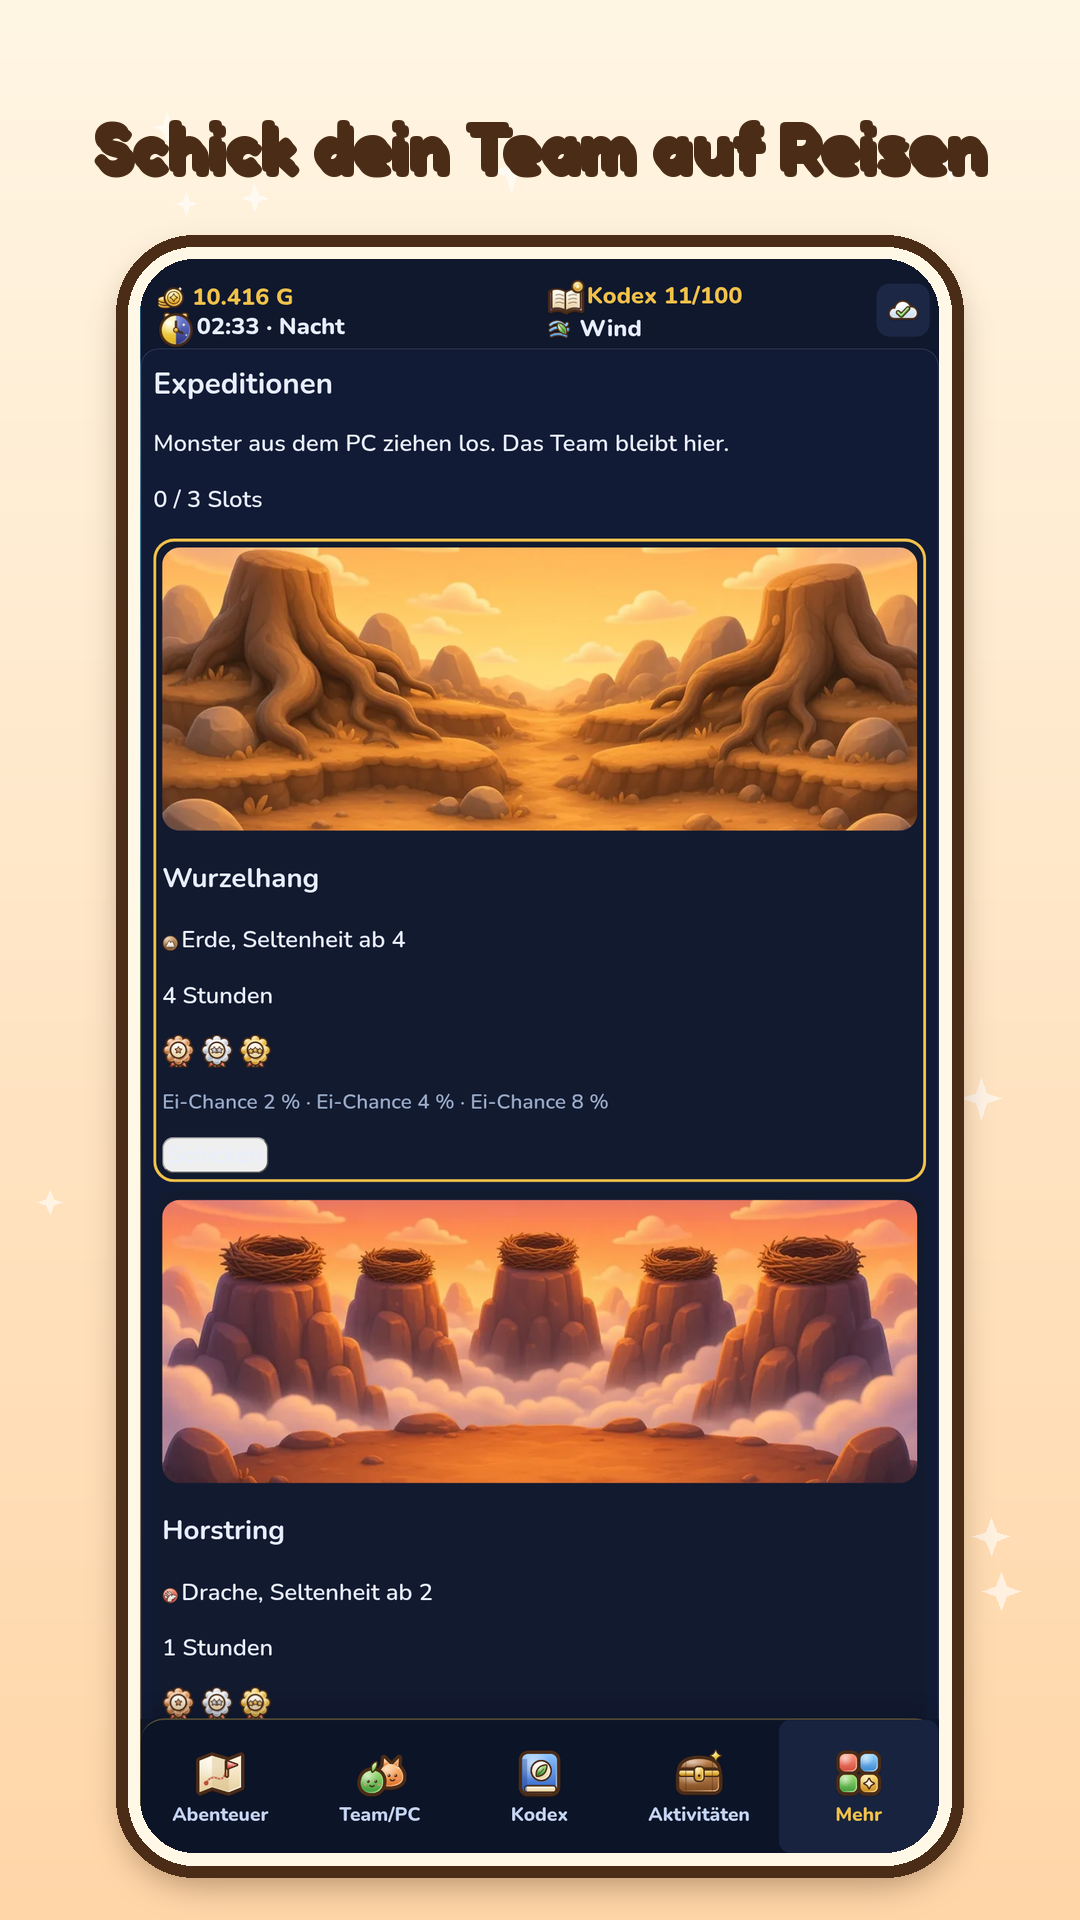
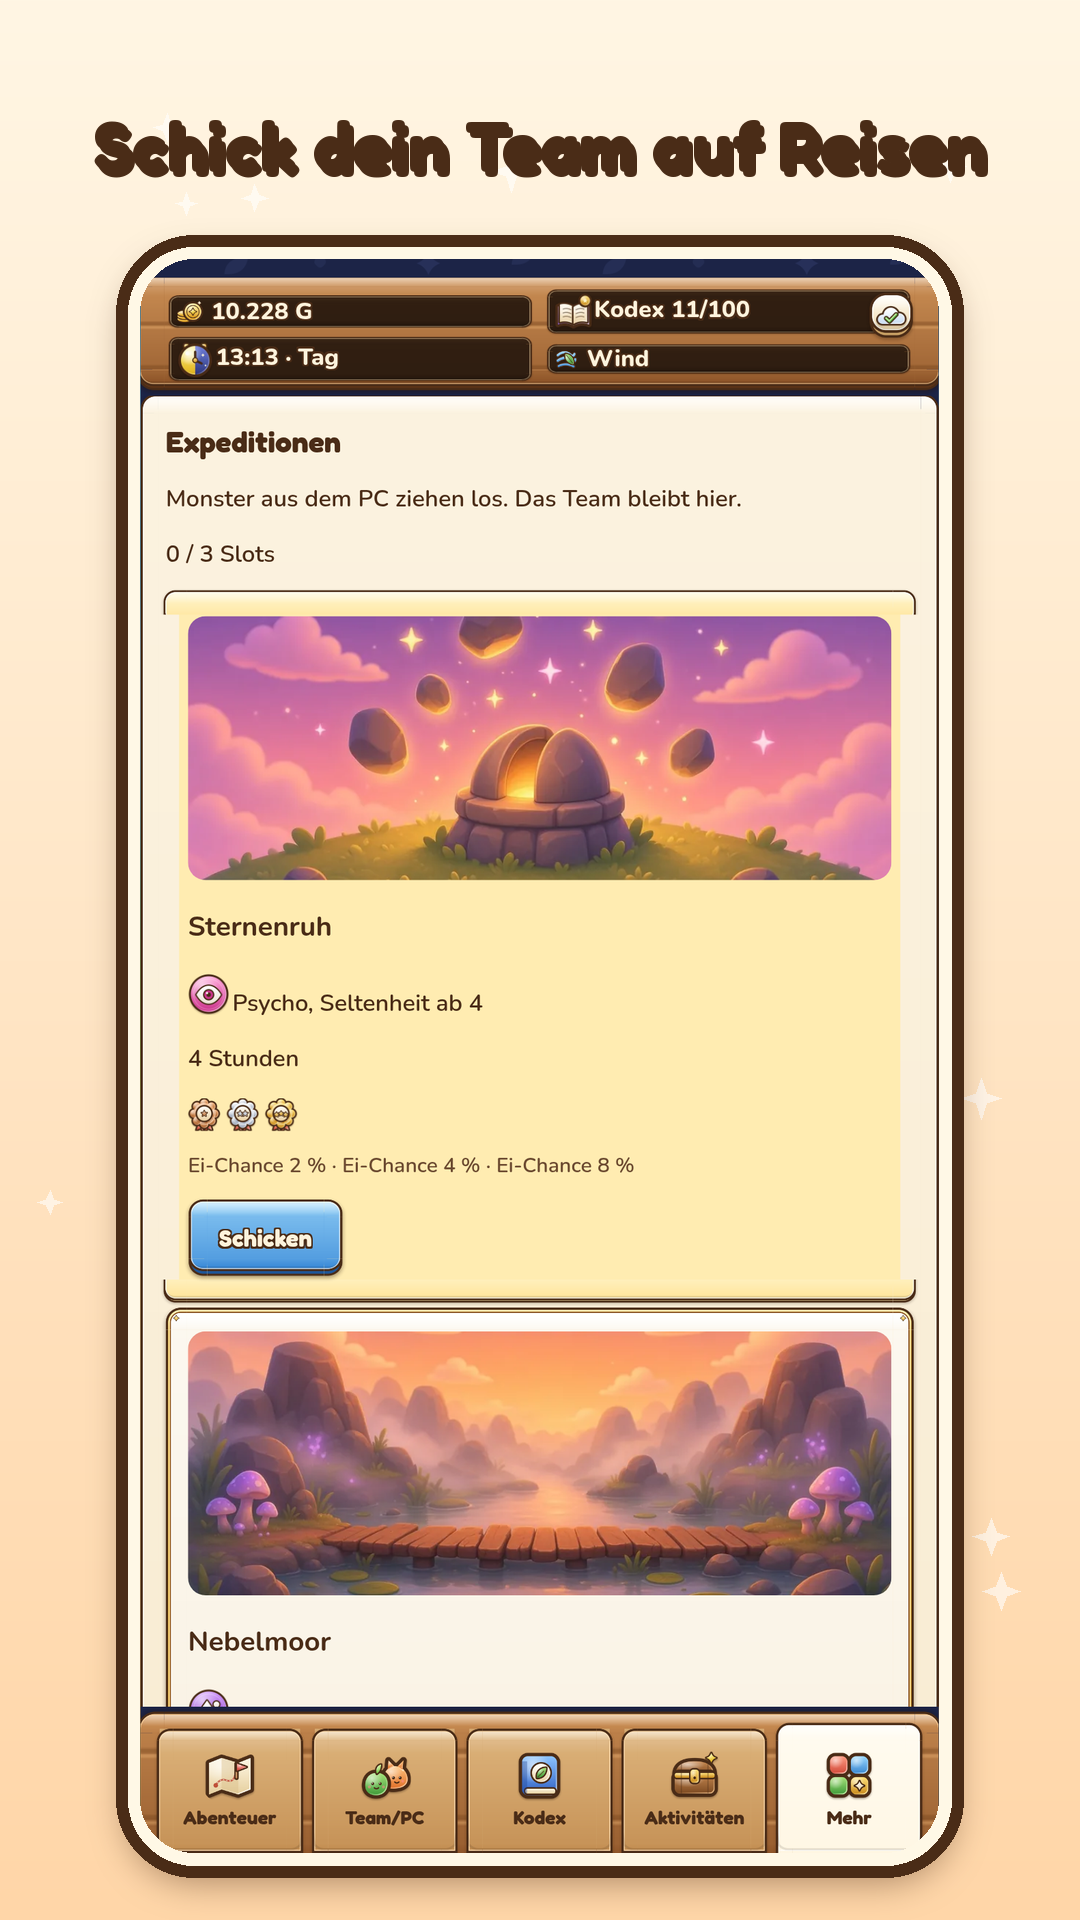
Grafik: Meisterschaftsringe, Starter-Rahmen, Store-Screenshots 01–07 neu, Abnahme D/E

diff --git a/docs/abnahme/p9-d.md b/docs/abnahme/p9-d.md
@@ -1,0 +1,42 @@
+---
+datum: 2026-11-19
+quelle: Live-Build https://2fast2hunter-ai.github.io/velunor/ (main d5e5b78, PR #95, Bundle index-Dk2nd-79.js), 390x844 DPR3: m390_* (audit_ui.mjs, Map-Sheet-Schließen ergänzt), xa/ (pra_dpr3.mjs), xb/ (prb_dpr3.mjs)
+status: abgenommen mit Restfehlern (0 hoch, 1 mittel, 6 niedrig); Sozial nur Offline-/Code-Prüfung (Supabase friends 403)
+---
+# Live-Abnahme Paket 9 PR D + Nachprüfung A/B/C
+
+## Nachprüfung (390 px)
+| Punkte | behoben? | Screenshot |
+|---|---|---|
+| A1 / B2 Slice-Nähte | ja, keine Haarlinien mehr bei 3× | xa/05_hub.png, m390_s_achievements.png |
+| A2 English-Knopf | ja (blau, helle Schrift) | xa/02_sprache.png |
+| A3 Log-Sheet unter wx-chip | ja | xa/07_log_voll.png |
+| A4, A5, A7, A10, A11, A12 | ja | xa/05_hub.png, xa/03_starter_gewaehlt.png, xa/06_kapitel_offen.png |
+| A6 Starter-Wertebalken | **nein**, s. R1 | xa/03_starter_gewaehlt.png |
+| A8 Hinweis in Holz-Leiste | teilweise (hell, lesbar), s. R2 | xa/02_name_leer_fokus.png |
+| A9 Log-Zeilen | teilweise (3 Zeilen), s. R3 | xa/05_hub.png |
+| B1 Truhen-Siegel | ja (dunkle Bühne, Siegel sichtbar) | xb/09_oeffnen_500/1200/2200.png |
+| B3, B5, B8, B9, B12 | ja | xb/03_status_tip.png, xb/05_kodex.png, xb/06_aktivitaeten_tage.png |
+| B4 Aktivitäten-Dock | teilweise (1 Zeile), s. R4 | xb/06_aktivitaeten_tage.png |
+| B6 Synergien/Team | teilweise (Synergien hell im Panel), s. R5 | xb/04_team.png |
+| B7 konter-label | ja (Code: ui-kit.css:1288–1296, Gold-Slices 36 30) | – |
+| B10, B11 | B10 ok; B11 Rad weiter gesperrt im Testlauf | xb/08_truhen.png, xb/10_rad.png |
+| C1, C2, C3, C5, C6, C7 | ja | m390_s_achievements/shop/map/tower.png |
+| C4 Rang-Tabs | ja (Raster), Kleinigkeit s. R6 | m390_s_ranks.png |
+| C8 | weiter gesperrt (nur Sperr-Ansicht) | m390_s_arena/expedition/tree.png |
+
+## Restfehler
+| # | Prio | Befund | Datei:Zeile (Vermutung) |
+|---|---|---|---|
+| R1 | mittel | Starter-Wertebalken: Füllung nur als dünner roter Strich sichtbar, Werte nicht ablesbar (A6) | ui-kit.css:1054–1055 (Bahn 4 px/Füllung 3 px Randbild bei 18 px Höhe) → Höhe 24 px, Füllung `border-image-width 6px`, ohne dunkle Bahnmitte |
+| R2 | niedrig | „Mindestens 2 Zeichen.“ klebt oben an/über der Holz-Leiste (Oberkante schneidet Schrift) | ui-kit.css:320–324 `margin-top` greift nicht, `.home-bar` border-width oben erhöhen |
+| R3 | niedrig | Hub: Dock-Slots ragen über die Log-Oberkante, erste Log-Zeile halb verdeckt | ui-kit.css:1077–1086 `button.log` / :706 `.dock` (Abstand/Höhe) |
+| R4 | niedrig | Aktivitäten-Dock: 5 Knöpfe in einer Zeile, „Glücksrad“ abgeschnitten („Glücksrac“) | ui-kit.css:1088 – Aktivitäten-Tabs eigene Zeile, Aktionen darunter |
+| R5 | niedrig | Team: Bereich „PC · 0“ steht weiter auf Navy außerhalb des Panels | Team-Container in Panel-Gruppe (ui-kit.css Panel :36ff) |
+| R6 | niedrig | Ränge: „Freunde“-Untertab berührt/überlappt die Tab-Zeile darüber | ui-kit.css Rank-Tabs (:414/:436-Gruppe) `margin-top` |
+| R7 | niedrig | Erfolge: Icon im Knopf „Titel“ überlappt die Beschriftung | adventure.css:189 `.achieve button` + ui-kit Button-Gruppe (Icon über Text stellen wie „Rahmen“) |
+
+## PR D Sozial (Freunde, Tausch, Gilde, Chat)
+- **Live:** Freunde bleibt bei „Die Freundesliste wird geöffnet.“ (`functions/v1/friends` 403), Tausch/Gilde/Chat zeigen „Offline …“-Panel. Diese Panels sind Kit-hell, korrekt, ohne Nähte (m390_s_social/trade/guild/chat.png).
+- **Aus Code (nicht live sichtbar):** alle Klassen in view.ts:1672–1960 haben Kit-Regeln oder erben sie (friend-row, trade-card, trade-escrow, chat-line, chat-send, chat-form, guild-phrases, beast-card, hp-beast; Eingaben global ui-kit.css:528–539). Keine dunkle Fläche mehr offen (adventure.css:1838 `.friend-search input #10182c` wird von ui-kit.css:529 überschrieben). Online-Zustände bitte mit Konto/Netz nachprüfen.
+- Hinweis: Optionen zeigt „Online“, Sozial-Screens „Offline“ – Textlogik, kein Grafikfehler.

diff --git a/docs/abnahme/p9-e.md b/docs/abnahme/p9-e.md
@@ -1,0 +1,27 @@
+---
+datum: 2026-11-19
+quelle: Live-Build https://2fast2hunter-ai.github.io/velunor/ (main b32c0f9, PR #96, Bundle index-CURw1FxJ.js), 390x844 DPR3: m390_* (audit_ui.mjs), xa/ (pra_dpr3.mjs), xb/ (prb_dpr3.mjs)
+status: abgenommen mit Restfehlern (0 hoch, 2 mittel, 7 niedrig); alle Flächen 1–118 am Kit
+---
+# Live-Abnahme Paket 9 PR E + Gesamtprüfung A–E
+
+PR E (Einstellungen, Konto, Anleitung, Dialoge/Sheets): Optionen/Konto, Anleitung, Zurücksetzen-Dialog, Zustimmung, Truhen-Quoten-, Kodex-, Mehr-Sheet hell, Dialog-Kopf blau, keine Nähte (m390_s_options/guide/popup_*.png, 01b_consent.png).
+
+## Restfehler (Stand b32c0f9)
+| # | Prio | Befund | Datei:Zeile (Vermutung) |
+|---|---|---|---|
+| E1 | mittel | `.sheet h2` macht **jede** h2 im Sheet zum blauen Dialog-Kopf: Monstername im Kodex-Eintrag und im Truhen-Ergebnis („Spukrüstung“) wird zum vollbreiten Balken, doppelt mit Kicker | ui-kit.css:1417 → `.sheet > h2` bzw. `:not(.chest-card h2):not(.dex-head h2)` |
+| R1 | mittel | Starter-Wertebalken (HP/Angriff/Tempo) weiter nur dünne Linie, Füllung kaum sichtbar (A6) | ui-kit.css:1054–1055 |
+| E2 | niedrig | Dock-Knöpfe mit 22-px-Schrift: „Jetzt abgleichen“ (Optionen), „Platz 2 · 50.000 G“, „Drehen“ winzig im großen Knopf | ui-kit.css:1261–1269 gilt auch für `.dock-primary` → `:not(.dock-primary)` |
+| E3 | niedrig | Starter-Karte: alter Rahmen (`.starter-frame`) liegt in der Kit-Karte → Rahmen-im-Rahmen, „Gewählt“-Knopf unten angeschnitten | adventure.css:934 `.starter-frame`, ui-kit.css:784/:1068 → neuer Rahmen ui_kit/starter/ (s. u.) |
+| R2 | niedrig | „Mindestens 2 Zeichen.“ in der Holz-Leiste oben angeschnitten | ui-kit.css:320–324 |
+| R3 | niedrig | Hub: Dock-Slots überdecken die erste Log-Zeile | ui-kit.css:1077–1086 / :706 |
+| R4 | niedrig | Aktivitäten-Dock: „Glücksrad“ abgeschnitten (5 Knöpfe/Zeile) | ui-kit.css:1088 |
+| R5 | niedrig | Team: „PC · 0“ außerhalb des Panels auf Navy | ui-kit.css:789 `.team-block` (PC-Block fehlt) |
+| R6/R7 | niedrig | Rang-Untertab „Freunde“ stößt an Tab-Zeile; Erfolge-Knopf „Titel“ Icon über Text | ui-kit.css :414/:436-Gruppe; adventure.css:189 |
+
+A1–A5, A7, A10–A12, B1–B3, B5–B12, C1–C8 bleiben behoben. Sozial weiter nur Offline-Ansicht (friends 403).
+
+## Neu gezeichnet (ui_kit, eigene Code-Grafik, raw_src/paket9/draw_mastery.py)
+- `ui_kit/mastery/ring_{bronze,silver,gold}.png` (+webp), 160×160, 9-Slice 56, Mitte transparent; Silber mit 4 Sternnieten, Gold zusätzlich Stern oben. Für `.m-plate.m-bronze/-silver/-gold` (adventure.css:1719–1721, ersetzt box-shadow-Ring). CSS-Beispiel in ui_kit.json.
+- `ui_kit/starter/starter_{fire,water,plant}.png` (+webp), 200×200, 9-Slice 72, Mitte transparent – ersetzt den alten `.starter-frame` (E3); Zuordnung m01 fire, m02 water, m03 plant.
